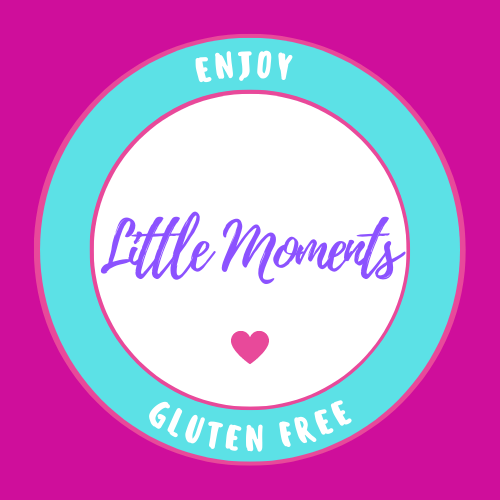
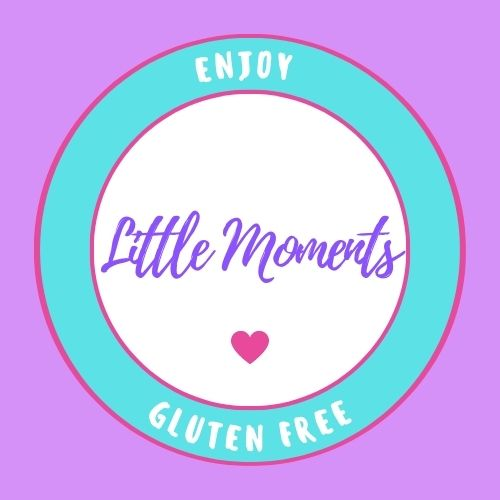
cambios de color

diff --git a/style/style.css b/style/style.css
@@ -7,7 +7,7 @@
 /* HEADER */
 
 .container_header {
-  background-color: #cf0e9b;
+  background-color: #d691f9;
   font-family: "Amatic SC", cursive;
   display: flex;
   max-width: 1400px;
@@ -16,8 +16,9 @@
 }
 
 h1 {
-  letter-spacing: 20px;
+  letter-spacing: 10px;
   animation: iluminar 2.4s infinite;
+  margin-bottom: 10px;
 }
 
 @keyframes iluminar {
@@ -75,7 +76,7 @@ li {
 }
 
 nav a:hover {
-  color: #f7fdfd;
+  color: #f4f712;
 }
 
 .titulo {
@@ -83,10 +84,15 @@ nav a:hover {
   text-align: center;
 }
 
+.h {
+  background: linear;
+  border: 1px solid #cf0e9b;
+}
+
 /* MAIN  */
 
 main {
-  background-color: #85f1f1;
+  background-color: #f0e3b7;
   display: flex;
   max-width: 1400px;
   margin: auto;
@@ -297,8 +303,16 @@ iframe {
 /*  FOOTER  */
 
 footer {
-  background-color: #cf0e9b;
+  background-color: #f0e3b7;
   max-width: 1400px;
+}
+
+.s {
+  border: 1px solid #cf0e9b;
+  width: 50%;
+  height: 2px;
+  margin-right: auto;
+  margin-left: auto;
 }
 
 .container_footer {

diff --git a/index.html b/index.html
@@ -74,6 +74,7 @@
           </ul>
         </nav>
       </div>
+      <hr class="h" />
     </header>
     <!--TERMINA HEADER-->
 
@@ -118,6 +119,7 @@
     </main>
     <!--TERMINA MAIN-->
     <!--EMPIEZA FOOTER-->
+    <hr class="s" />
     <footer class="container_footer">
       <p class="texto_footer">Little Moments ©</p>
       <a
@@ -125,10 +127,7 @@
         title="Instagram"
         href="https://www.instagram.com/littlemomentsgf/"
         target="_blank"
-        ><img
-          src="images/Diseño sin título.jpg"
-          height="40px"
-          alt="Link a Instagram"
+        ><img src="images/logoig.png" height="40px" alt="Link a Instagram"
       /></a>
     </footer>
     <!--TERMINA FOOTER-->

diff --git a/pages/envios.html b/pages/envios.html
@@ -68,6 +68,7 @@
           </ul>
         </nav>
       </div>
+      <hr class="h" />
     </header>
     <!--TERMINA HEADER-->
     <!--EMPIEZA MAIN-->
@@ -118,10 +119,7 @@
         title="Instagram"
         href="https://www.instagram.com/littlemomentsgf/"
         target="_blank"
-        ><img
-          src="../images/Diseño sin título.jpg"
-          height="40px"
-          alt="Link a Instagram"
+        ><img src="../images/logoig.png" height="40px" alt="Link a Instagram"
       /></a>
     </footer>
     <!--TERMINA FOOTER-->

diff --git a/pages/productos.html b/pages/productos.html
@@ -67,6 +67,7 @@
           </ul>
         </nav>
       </div>
+      <hr class="h" />
     </header>
     <!--TERMINA HEADER-->
     <!--EMPIEZA MAIN-->
@@ -294,10 +295,7 @@
         title="Instagram"
         href="https://www.instagram.com/littlemomentsgf/"
         target="_blank"
-        ><img
-          src="../images/Diseño sin título.jpg"
-          height="40px"
-          alt="Link a Instagram"
+        ><img src="../images/logoig.png" height="40px" alt="Link a Instagram"
       /></a>
     </footer>
     <!--TERMINA FOOTER-->

diff --git a/pages/contacto.html b/pages/contacto.html
@@ -69,6 +69,7 @@
           </ul>
         </nav>
       </div>
+      <hr class="h"> 
     </header>
     <!--TERMINA HEADER-->
     <!--EMPIEZA MAIN-->
@@ -110,7 +111,7 @@
         href="https://www.instagram.com/littlemomentsgf/"
         target="_blank"
         ><img
-          src="../images/Diseño sin título.jpg"
+          src="../images/logoig.png"
           height="40px"
           alt="Link a Instagram"
       /></a>

diff --git a/pages/comocomprar.html b/pages/comocomprar.html
@@ -68,6 +68,7 @@
           </ul>
         </nav>
       </div>
+      <hr class="h">
     </header>
     <!--TERMINA HEADER-->
     <main>
@@ -96,7 +97,7 @@
         href="https://www.instagram.com/littlemomentsgf/"
         target="_blank"
         ><img
-          src="../images/Diseño sin título.jpg"
+          src="../images/logoig.png"
           height="40px"
           alt="Link a Instagram"
       /></a>
